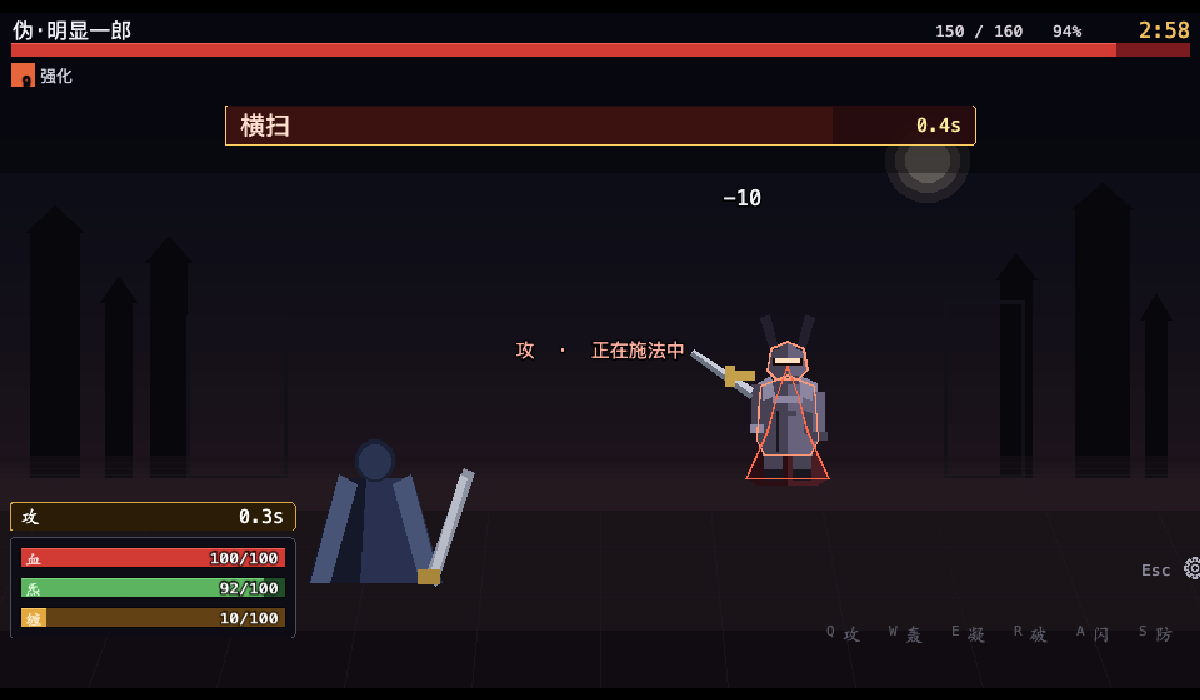
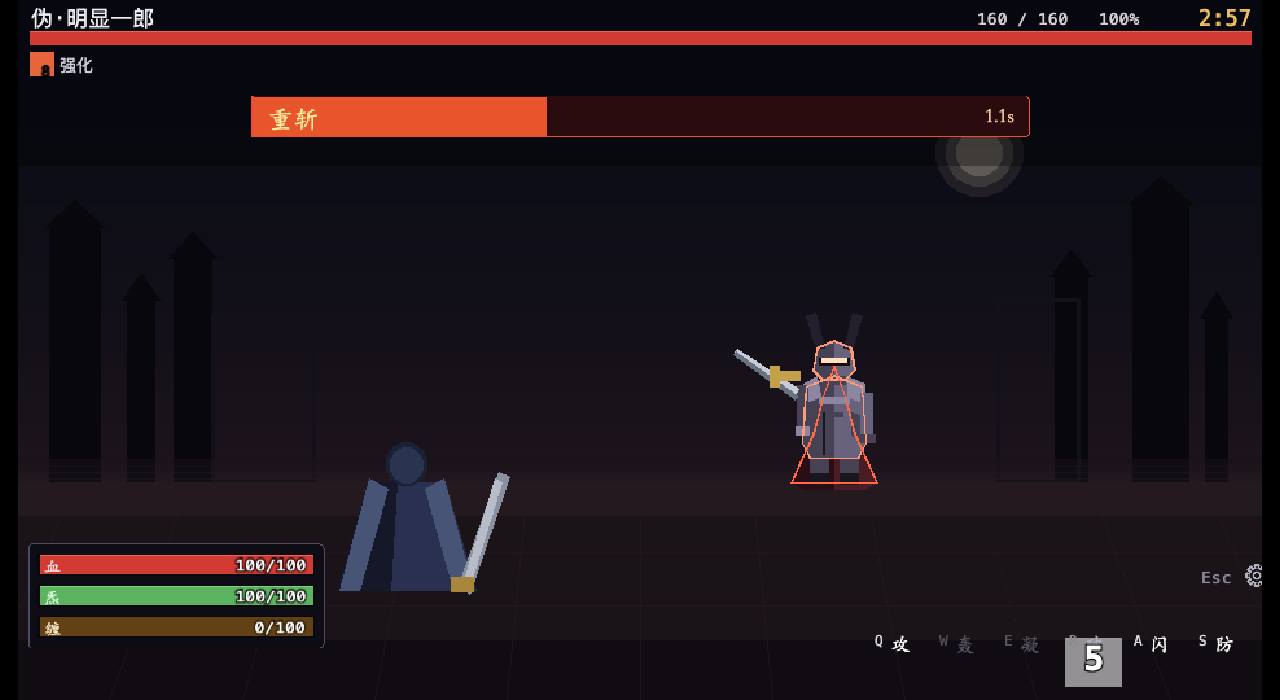
feat(ui): 技能格冷却改为「白色遮罩铺满 + 数字居中盖住技能字」
需求："按键的 cd，数字应该盖在按键 icon 上，背景是暗色，
cd 的半透明遮罩就应该用白色。"

【改动】
- 遮罩颜色：半透明**黑** → 半透明**白**（alpha 0.55）
  亮色在暗底格子上对比度高，"还剩多少"一眼可读
- 遮罩高度：18px 矮条 → **整格 44px**（`cooldownBarHeight = slot`）
- 冷却数字：技能字**下方**、13px → **格子正中、26px（FONT.big）+ 描边**
  数字 > 技能字，所以"谁盖谁"在视觉上明确

【验证：遮罩高度确实随进度收缩】
同一格在三个时刻截图：5 → 3 → 1，白色区域同步变矮。

【新增 4 条测试（锁住容易改坏的几件事）】
- 遮罩的 fill 必须是**白色**且 **alpha 在 (0.3, 1)** 之间
- `cooldownBarHeight === slot`（防退回"矮条"）
- **层的顺序**：格子底 → 技能字 → 按键 → cd 数字（最后 = 最上层）
  —— 这条直接对应"数字要盖在 icon 上"
- 数字字号 > 技能字字号

【过程中的一个自我纠正】
我一度以为数字"超出了格子下边界"，那是把放大后的截图看错了。
实测数字占 y 491..525，格子是 486..530 —— 没有越界。
**教训：判断是否越界要看坐标，不要靠看缩放后的图。**

474 测试 + lint + typecheck + build 全过。

diff --git a/src/render/BattleScene.ts b/src/render/BattleScene.ts
@@ -311,14 +311,24 @@ class SkillBarView {
        * 放正中会与技能字完全重叠；放底部居中会与按键提示挤在一起。
        * 现在放**右下角压在弧线上**，技能字完整保留（字与数字不重叠）。
        */
+      /**
+       * 冷却秒数：**居中盖在技能字上**。
+       *
+       * - 字号 `FONT.big`(26px) > 技能字 `FONT.body`(15px)，
+       *   这样"谁盖谁"在视觉上是明确的
+       * - 双向居中（anchor 0.5/0.5），所以 `pos.cooldown` 是中心点
+       * - 描边保证在任何底色上都读得清（白色遮罩 / 深色格子都行）
+       */
       const cd = new Label(this.pixi, {
         x: pos.cooldown.x,
         y: pos.cooldown.y,
-        size: FONT.small,
+        size: FONT.big,
         color: 0xffffff,
         anchorX: 0.5,
+        anchorY: 0.5,
         stroke: 0x000000,
         strokeWidth: 3,
+        bold: true,
       });
       this.root.addChild(gfx, glyph.root, key.root, cd.root);
       this.slots.push({ gfx, glyph, key, cd, rect });
@@ -359,7 +369,7 @@ class SkillBarView {
         continue;
       }
 
-      const { x, y, w } = s.rect;
+      const { x, y, w, h } = s.rect;
       const g = s.gfx;
       g.clear();
 
@@ -375,22 +385,26 @@ class SkillBarView {
        */
       if (view.cooldownRatio > 0.001) {
         /**
-         * 冷却遮罩：格子**顶部**一块**半透明黑色矮条**。
+         * 冷却遮罩：**白色半透明，铺满整格**（底边对齐，向满高生长）。
          *
-         * 换过三次，每次都是被具体问题逼的：
+         * 需求："cd 的半透明遮罩就应该用白色"、"背景是暗色"、
+         * "数字应该盖在按键 icon 上"。
          *
-         *   1. **扇形/圆环填充** —— 把技能字盖住了。
-         *   2. **一条红色弧线** —— 虽然不挡字，但（a）红色在这套
-         *      青/金/绿的配色里非常跳；（b）**会抖动**：弧的起止角
-         *      每帧重算，抗锯齿边缘在 1px 之间来回跳。
-         *   3. 现在：**半透明黑 + 固定高度 + 只有高度变化**。
-         *      高度是整数像素，所以不会抖；黑色不参与配色。
+         * 演进（这条来回改过很多次，记下来）：
+         *   1. **扇形/圆环** —— 把技能字盖住
+         *   2. **红色弧线** —— 配色里太跳，而且逐帧重算起止角**会抖动**
+         *   3. **半透明黑色矮条（18px）** —— 太暗，且"还剩多少"读不出来
+         *   4. **白色铺满整格**（当前）—— 亮色在暗底格子上对比度高，
+         *      剩余高度一眼可读；高度取整所以不抖
          *
-         * 高度只改（不变色、不换形状），读取起来也更直接：
-         * 黑条越长 = 冷却越久。
+         * 白色用**半透明**（0.55）：既压住技能字让数字跳出来，
+         * 又不会糊成一块死白（还能看见底下的格子边界）。
+         *
+         * 数字（`s.cd`）在这个遮罩**之后** addChild，所以盖在最上面 ——
+         * 这正是需求要的"数字盖在 icon 上"。
          */
         const barH = Math.max(1, Math.round(SLOT_COOLDOWN_BAR_H * view.cooldownRatio));
-        g.rect(x, y, w, barH).fill({ color: 0x000000, alpha: 0.62 });
+        g.rect(x, y + h - barH, w, barH).fill({ color: 0xffffff, alpha: 0.55 });
       }
       /**
        * 不可用（资源不足 / 条件不满足）**不画任何方框**。
@@ -426,6 +440,12 @@ class SkillBarView {
        *
        * 早期显示到 0.1 秒（`toFixed(1)`）：一是"还剩 4.3 秒"对玩家没有
        * 额外信息量，二是那个宽度会把技能字挤掉。取整后一位数字放得下。
+       */
+      /**
+       * 冷却秒数：**盖在技能字上**，字号用 `FONT.big`(26px) 压过它。
+       *
+       * 需求："按键的 cd，数字应该盖在按键 icon 上。"
+       * 加描边是为了在任何底色上都读得清（白色遮罩 / 深色格子都行）。
        */
       s.cd.set(view.cooldownRatio > 0.001 ? Math.ceil(view.cooldownSec).toString() : '');
     }

diff --git a/tests/unit/viewModel.test.ts b/tests/unit/viewModel.test.ts
@@ -208,3 +208,46 @@ describe('读条组件（CastBar）：两处读条共用同一个实现', () => 
     expect(LAYOUT.playerCastBar.y + LAYOUT.playerCastBar.h).toBeLessThanOrEqual(LAYOUT.player.y);
   });
 });
+
+describe('技能格：冷却遮罩（白）与数字的层叠', () => {
+  /**
+   * 需求："按键的 cd，数字应该盖在按键 icon 上，背景是暗色，
+   * cd 的半透明遮罩就应该用白色。"
+   *
+   * 这条来回改过很多次（弧形 → 红弧 → 黑色矮条 → 白色铺满），
+   * 而且每一版都能"看起来差不多能用" —— 所以必须用断言锁住
+   * 三件容易改坏的事。
+   */
+  const read = async (rel: string): Promise<string> =>
+    (await import('node:fs')).readFileSync(new URL(rel, import.meta.url), 'utf8');
+
+  it('遮罩是**白色**半透明，而不是黑色', async () => {
+    const src = await read('../../src/render/BattleScene.ts');
+    // 冷却遮罩那次 fill 必须是白色
+    const m = /SLOT_COOLDOWN_BAR_H \* view\.cooldownRatio\)\);\s*\n\s*g\.rect\([^)]*\)\.fill\(\{ color: (0x[0-9a-f]+), alpha: ([\d.]+) \}\)/.exec(src);
+    expect(m, '未找到冷却遮罩的 fill 调用').not.toBeNull();
+    expect(m![1]).toBe('0xffffff');
+    // 半透明：既压住技能字，又不糊成死白
+    const alpha = Number(m![2]);
+    expect(alpha).toBeGreaterThan(0.3);
+    expect(alpha).toBeLessThan(1);
+  });
+
+  it('遮罩最大高度 = 整格（不是一条矮条）', () => {
+    expect(LAYOUT.skillBar.cooldownBarHeight).toBe(LAYOUT.skillBar.slot);
+  });
+
+  it('【关键】数字在技能字**之后**绘制 —— 否则盖不住 icon', async () => {
+    const src = await read('../../src/render/BattleScene.ts');
+    // 技能格那一次 addChild 的参数里有 cd.root（其它 addChild 没有）
+    const m = /this\.root\.addChild\((gfx,[^)]*cd\.root[^)]*)\)/.exec(src);
+    expect(m, '未找到技能格的 addChild').not.toBeNull();
+    const order = m![1]!.split(',').map((x) => x.trim());
+    // 顺序：格子底 → 技能字 → 按键 → **冷却数字（最后 = 最上层）**
+    expect(order).toEqual(['gfx', 'glyph.root', 'key.root', 'cd.root']);
+  });
+
+  it('数字字号大于技能字 —— 冷却时它才是关键信息', () => {
+    expect(FONT.big).toBeGreaterThan(FONT.body);
+  });
+});

diff --git a/src/ui/layout.ts b/src/ui/layout.ts
@@ -173,13 +173,15 @@ export const LAYOUT = {
     y: 486,
     right: 8,
     /**
-     * 冷却遮罩**最大**高度（"变矮"）。
+     * 冷却遮罩**最大**高度 = **整格**。
      *
-     * 早期是覆盖整格的弧形：又红又高而且**抖动**（弧的起止角每帧
-     * 重算，抗锯齿边缘在 1px 之间跳）。现在是一块半透明黑条，
-     * 固定高度、只有高度随冷却比例变。
+     * 需求："cd 的半透明遮罩就应该用白色"、"数字应该盖在按键 icon 上"。
+     *
+     * 演进：弧形（盖住字、会抖）→ 黑色矮条（18px，太暗、看不出进度）
+     * → **白色铺满整格**（当前）。
+     * 只有高度随冷却比例变化，高度取整所以不抖。
      */
-    cooldownBarHeight: 18,
+    cooldownBarHeight: 44,
   },
 
   /** 战斗计时（顶栏右侧） */
@@ -260,12 +262,20 @@ export function skillSlotLabels(rect: {
      */
     glyph: { x: rect.x + rect.w / 2, y: rect.y + 2 },
     /**
-     * 冷却秒数：水平居中，压在技能字下方。
+     * 冷却秒数：**格子正中，直接盖在技能字上**。
      *
-     * 居中而不是塞角落：秒数是冷却时最需要读的信息，
-     * 而字此刻是"已知的那个技能"，让位给数字更合理。
+     * 需求："按键的 cd，数字应该盖在按键 icon 上。"
+     *
+     * 演进：我先放在技能字**下方**（想避免重叠），但那样数字很小、
+     * 又要和技能字抢纵向空间。现在改成**居中盖住**：
+     *   - 数字用 `FONT.big`（26px），比技能字（15px）大一圈
+     *   - 白色半透明遮罩铺满整格，把技能字压暗
+     *   - 于是数字成为格子里最醒目的元素 —— 冷却时它才是关键信息
+     *
+     * 用 `anchorX/Y = 0.5` 居中，所以这里给的是**中心点**。
+     * 实测数字占 y 491..525，格子上限 530 —— 放得下。
      */
-    cooldown: { x: rect.x + rect.w / 2, y: rect.y + rect.h - 22 },
+    cooldown: { x: rect.x + rect.w / 2, y: rect.y + rect.h / 2 },
     /**
      * 按键提示：**左上角**。
      *
